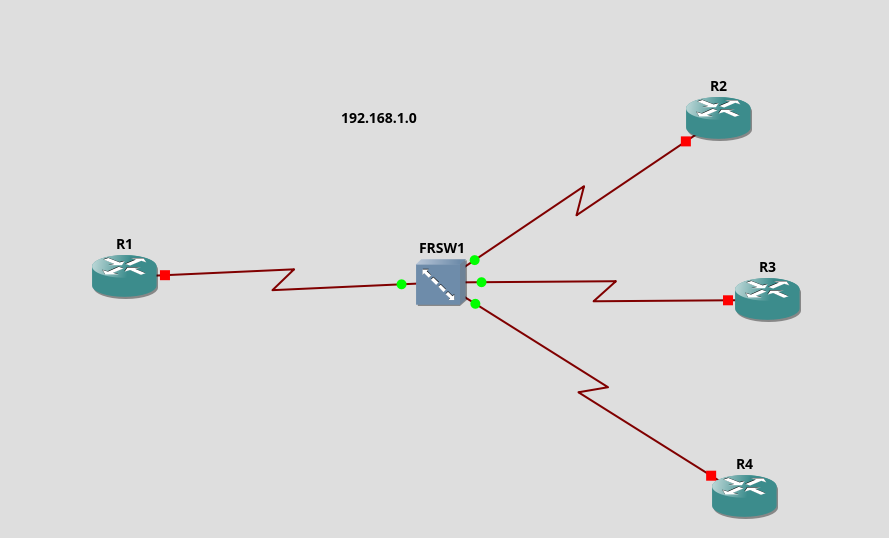
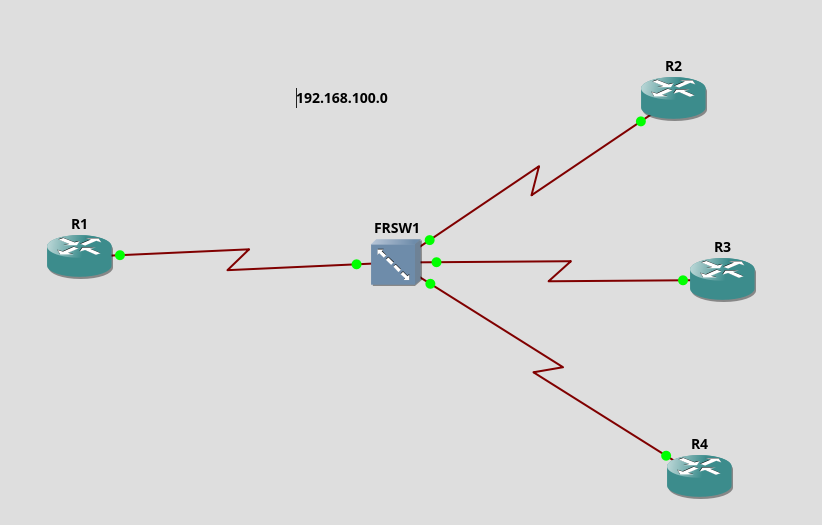
add 19

Changed region(s): [[0.0608, 0.1219, 0.9428, 0.9752], [0.365, 0.1524, 0.4866, 0.2438]]

diff --git a/19-framerelay+ospf/README.md b/19-framerelay+ospf/README.md
@@ -1,1 +1,146 @@
-# 
+# scenario 1
+![](../_resources/swappy-20220711-064056.png)
+
+- <div dir="auto" align="right" style="text-align: right"> ابتدا ospf را برای همه روتر ها اجرا می کنیم:</div>
+
+	+ R1:
+		* `router ospf 1`
+		* `net 192.168.100.0 0.0.0.255 area 0`
+		* `net 1.1.1.1 0.0.0.0 area 0`
+	+ R2:
+		* `router ospf 2`
+		* `net 192.168.100.0 0.0.0.255 area 0`
+		* `net 2.2.2.2 0.0.0.0 area 0`
+	+ R3:
+		* `router ospf 3`
+		* `net 192.168.100.0 0.0.0.255 area 0`
+		* `net 3.3.3.3 0.0.0.0 area 0`
+	+ R4:
+		* `router ospf 4`
+		* `net 192.168.100.0 0.0.0.255 area 0`
+		* `net 4.4.4.4 0.0.0.0 area 0`
+---
+- اولین مشکل : هیچکدام از روتر ها با یکدیگر همسایه نمی شوند
+	+ علت: چون hello هایشون به یکدیگر نمی رسد
+	+ ابتدا باید چه چیزهایی را چک کنیم؟
+		* `sh ip ospf neighbor`
+		* `sh ip protocols`
+		* `debug ospf hello`
+		* `debug ospf adj`
+		* `debug ospf packet`
+		* `sh ip ospf int se 1/0`
+	+ علت دقیق تر: چون این سناریو شبکه NON_BROADCAST می باشد و در این نوع شبکه ها ما مولتی کست و برادکست نداریم ، و pseudo-broadcast داریم، درنتیجه OSPF هیچ گونه فعالیتی در این شبکه نخواهد کرد
+![](../_resources/swappy-20220711-145725.png)
+
+	+ اسم این شبکه ها به اصطلاح NBMA می باشد مخفف Non-Broadcast Multiple Access ، یعنی شبکه ی ما برادکست ساپورت نمی کند ولی multiple access است
+	
+	- OSPF interface network types:
+
+	![](../_resources/swappy-20220711-150913.png)
+
+	![](../_resources/8486-OSPF_network_type.png)
+
+	- راه حل اول: دستی ست کردن neighbor ها در OSPF
+		+ اگر این کار را بکنیم باید تمامی neighbor ها را در تمامی روترها دستی ست کنیم
+
+	
+	- راه حل دوم: تغییر network type به BROADCAST
+		+ `(config-if)# ip ospf network broadcast`
+		
+- دومین مشکل: اگر DR از روتر های ۲ و ۳ و ۴ انتخاب شود آنگاه route ها به صورت کامل در همه روتر ها ایجاد نخواهد شد زیرا DR نمی تواند به درستی همه route ها را دریافت و پخش کند. در نتیجه DR بایستی حتما در hub شبکه باشد.
+	+ راه حل۱: DR را R1 کنیم ، اما چگونه؟ با تغییر priority در بقیه روتر ها به صفر، ولی اگر priority را در R1 بالا ببریم این روش پایداری نیست زیرا اگر R1 دیرتر روشن شود باز هم DR نمی شود
+		* `(config-if)# ip ospf priority 0`
+	+ راه حل۲: شبکه را full mesh کنیم
+	
+
+# Scenario2: NBMA (more than 1 subnet)
+![](../_resources/swappy-20220711-160536.png)
+
+- در این سناریو R1 دو sub-interface یکی از نوع point-to-point و دیگری از نوع multi-point بایستی بسازد
+	+ `int se 1/0`
+	+ `encap frame-relay`
+	+ `no shut`
+	+ `exit`
+	+ `int se 1/0.12`
+	+ `int se 1/0.134`
+
+- پس از ست کردن آی پی ها سر اینترفیس ها خواهیم دید که DCLI map ها را روتر ها ندارند. درنتیجه نمی توانند همدیگر را پینگ کنند.
+	+ tshot:
+		* `sh ip int br`
+		* `sh frame map`
+		
+	- خواهیم دید که هیچ DLCI ای دریافت نشده.مشکل چیست؟ در سناریو های قبل تر روتر ها ابتدا با استفاده از پروتکل LMI از سوییچ مخابراتی DLCI ها را دریافت می کردند و سپس با استفاده از inverse arp آی پی های یکدیگر را بدست می آورند. در این سناریو نیز LMI مشکلی ندارد و R1 تمامی DLCI ها را دریافت می کند ولی نمی داند بایستی روی کدام ساب اینترفیس خودش آن را ست کند
+		+ راه حل: بایستی frame-relay map ها را دستی وارد کنیم
+			1. `(config-subif)# frame-relay map ip 192.168.12.2 102`
+				- error:  Only frame-relay interface-dlci command should beused on point-to-point interfaces not frame-relay map
+				- یعنی روی اینترفیس پوینت تو پوینت نیازی به ip نیست پس دستور ما باید اینگونه باشد:
+				- `frame-relay interface-dlci 102`
+				- بعد از این دستور R2 می تواند بوسیله inverse arp آی پی R1 را بدست آورد و در واقع از R1 جواب دریافت کند.
+			2. `(config-subif)# frame-relay map ip 192.168.134.3 103`
+			3. `(config-subif)# frame-relay map ip 192.168.134.4 104`
+			
+			4. و در انتها اگر خواستیم که R3 و R4 یکدیگر را پینگ کنند می توانند map برای خودشان اضافه کنند
+
+# EIGRP in scenario 2
+-
+	+ R1:
+		* `router eigrp 1`
+		* `net 192.168.12.0`
+		* `net 192.168.134.0`
+		* `net 1.1.1.1 0.0.0.0`
+	+ R2:
+		* `router eigrp 1`
+		* `net 192.168.12.0`
+		* `net 2.2.2.2 0.0.0.0`
+	+ R3:
+		* `router eigrp 1`
+		* `net 192.168.134.0`
+		* `net 3.3.3.3 0.0.0.0`
+	+ R4:
+		* `router eigrp 1`
+		* `net 192.168.134.0`
+		* `net 4.4.4.4 0.0.0.0`
+		
+1. پس از تنظیم eigrp فقط روتر R1 با همه روتر ها همسایه می شود ولی R3 و R4 پیغام همسایگی نمی دهند.
+	+ tshot:
+		* `debug eigrp packets`
+		
+	+ علت: hello یک طرفه ، یعنی R1 پکت های hello را دریافت می کند ولی پکت های hello مربوط به R1 را بقیه دریافت نمی کنند
+	+ علت دقیق تر: مشکل ما frame-relay map های ماست، ما در این سناریو map ها را در دستی وارد کردیم ، حال اگر map ما تگ broadcast را نداشته باشد مالتی کست نیز کار نخواهد کرد.
+	
+		![](../_resources/swappy-20220711-192607.png)
+
+	+ راه حل: در نوشتن مپ ها کلمه broadcast را نیز قید کنیم:
+		* `frame-relay map ip 192.168.134.3 dlci 103 broadcast`
+		
+
+2. مشکل بعد: مشکل split horizon در ساب اینترفیس 134 ، اما R2 مشکلی ندارد چون ساب اینترفیس جدایی دارد
+
+
+# OSPF in scenario 2
+- از ادامه ماجرای بالا شروع می کنیم و فقط eigrp ها را غیرفعال می کنیم
+-
+	+ R1:
+		* `router ospf 1`
+		* `net 192.168.12.0 0.0.0.255 area 0`
+		* `net 192.168.134.0 0.0.0.255 area 0`
+		* `net 1.1.1.1 0.0.0.0 area 0`
+	+ R2:
+		* `router ospf 2`
+		* `net 192.168.12.0 0.0.0.255 area 0`
+		* `net 2.2.2.2 0.0.0.0 area 0`
+	+ R3:
+		* `router ospf 3`
+		* `net 192.168.134.0 0.0.0.255 area 0`
+		* `net 3.3.3.3 0.0.0.0 area 0`
+	+ R4:
+		* `router ospf 4`
+		* `net 192.168.134.0 0.0.0.255 area 0`
+		* `net 4.4.4.4 0.0.0.0 area 0`
+		
+- اولین مشکل : هیچ همسایگی رخ نمی دهد
+	+ علت: مشکل OSPF در شبکه NON_BROADCAST ، در R1 ساب اینترفیس ۱۲ پوینت تو پوینت تشخیص داده می شود ولی در R2 این اینترفیس NON_BROADCAST است در نتیجه پاسخی از R2 به سمت R1 گرفته نمی شود.
+		* راه حل: اگر در این حالت دستی neighbor تعریف کنیم باز هم همسایه نمی شوند چون hello/dead time دو طرف متفاوت است ، پس تنها راه عوض کردن network type است
+		
+- دومین مشکل: مشکل DR نبودن hub شبکه در ساب اینترفیس ۱۳۴
+	+ این سناریو نسخه کوچک شده سناریو های قبلی است
